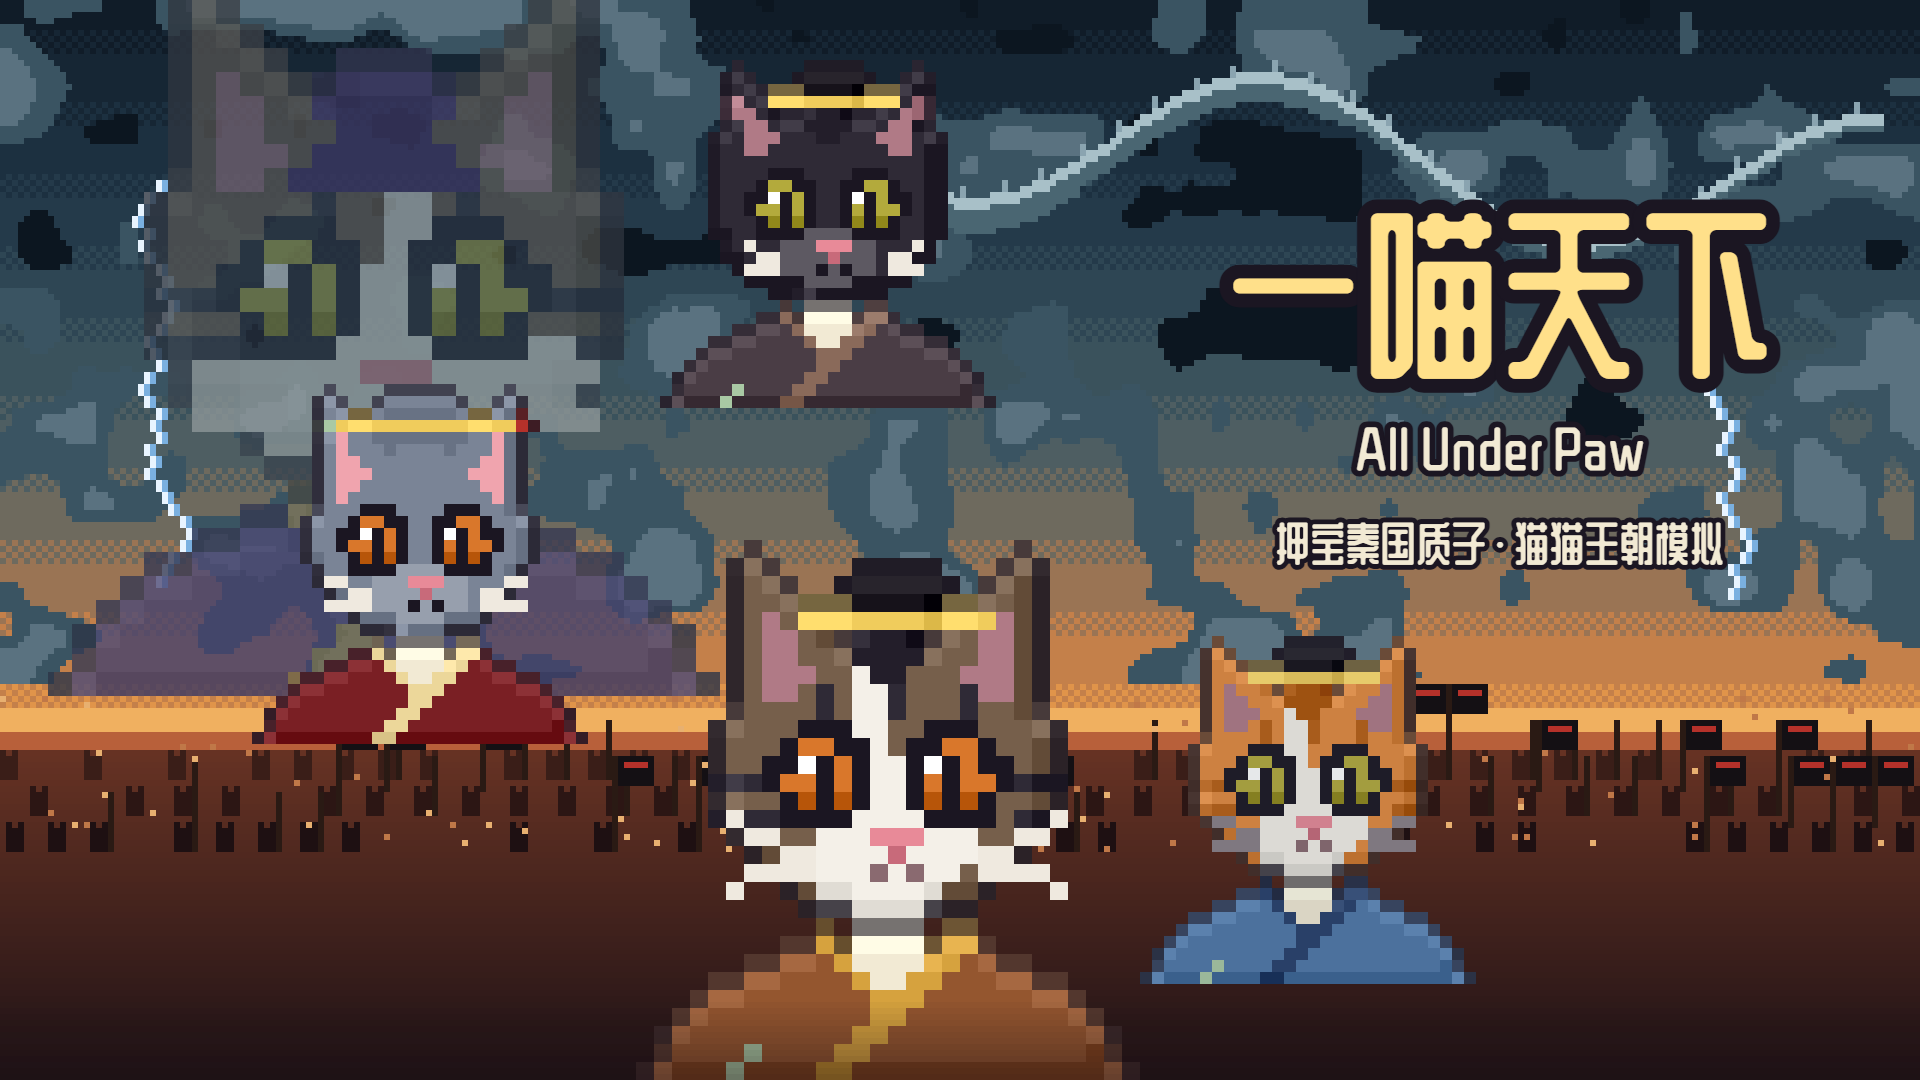
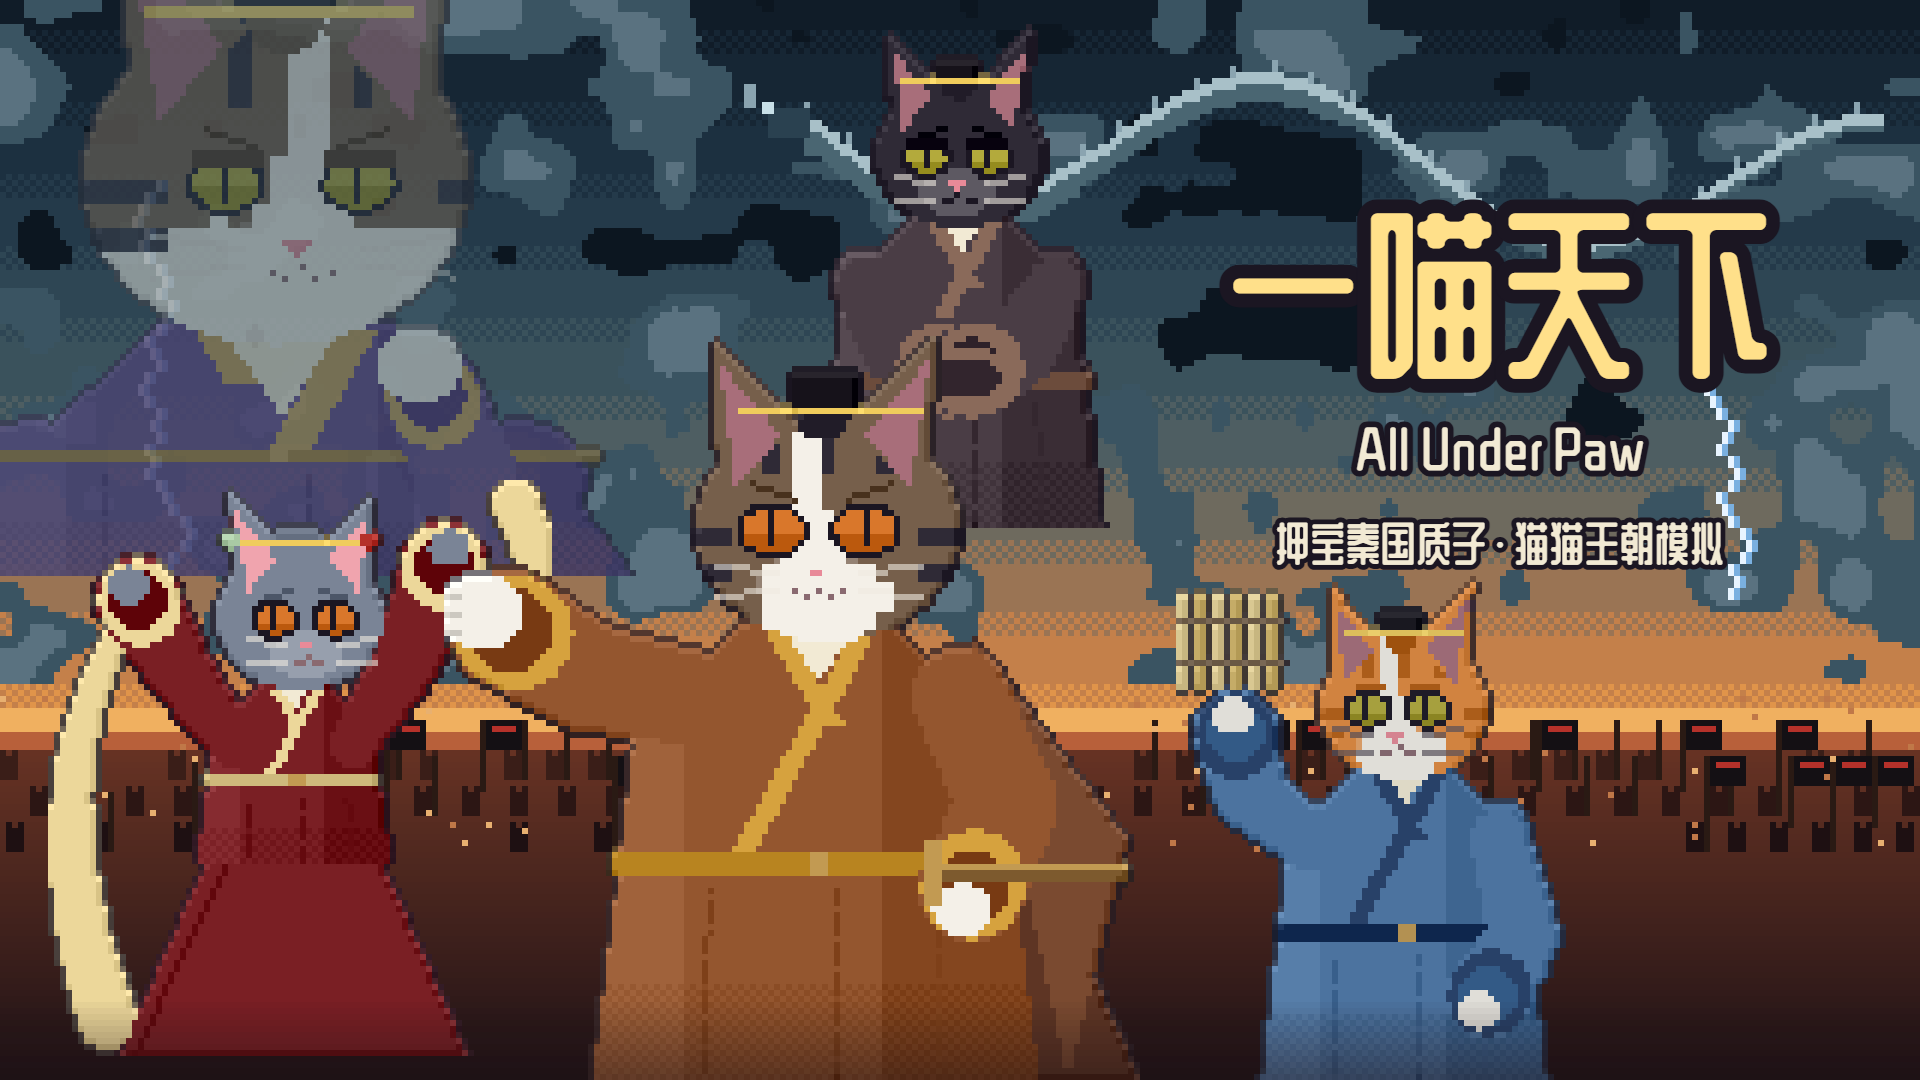
Key art: posed pixel figures instead of pasted portraits
The head of house reaches out with a paw on his sword, 赵姬 dances with flying
sleeves, 异人 bows with paws in his sleeves, 平原君 raises a bamboo scroll, and
吕不韦 looms in the clouds stroking his whiskers. Fur comes from their genes.

diff --git a/index.html b/index.html
@@ -2164,12 +2164,9 @@ function drawTitle() {
   if (!TITLEART && TW) {
     const Wb = W; W = TW;
     const c = paintKeyArt(180, 232), x = c.getContext('2d'); x.imageSmoothingEnabled = false;
-    const hero = coverHero();
-    const layers = [[C('lv'), -14, -8, 3, .5], [C('yiren'), 100, 20, 2, 0], [C('pingyuan'), 118, 86, 2, .12], [C('zhaoji'), 0, 78, 2, 0], [hero, 42, 116, 3, 0]];
-    for (const [ch, lx, ly, k, fade] of layers) {
-      let pc = portrait(ch);
-      if (fade) { const t = mk(32, 32), tx = t.getContext('2d'); tx.drawImage(pc, 0, 0); tx.globalCompositeOperation = 'source-atop'; tx.globalAlpha = fade; tx.fillStyle = '#2e4654'; tx.fillRect(0, 0, 32, 32); pc = t; }
-      x.globalAlpha = fade > .3 ? .8 : 1; x.drawImage(pc, lx, ly, 32 * k, 32 * k); x.globalAlpha = 1;
+    coverHero(); const F = keyFigures();
+    for (const [f, fx, fy, fade] of [[F.lv, -18, -6, .45], [F.yiren, 108, 8, 0], [F.pingyuan, 110, 82, .1], [F.zhaoji, -6, 66, 0], [F.hero, 30, 108, 0]]) {
+      x.globalAlpha = fade > .3 ? .85 : 1; x.drawImage(fade ? fadeTo(f, '#2e4654', fade) : f, fx, fy); x.globalAlpha = 1;
     }
     for (let y = 196; y < 232; y++) { x.globalAlpha = (y - 196) / 36; x.fillStyle = '#2a2030'; x.fillRect(0, y, 180, 1); }
     x.globalAlpha = 1;
@@ -2287,6 +2284,150 @@ function paintKeyArt(CW, CH) {
   for (let i = 0; i < 90; i++) { const x = hash2(i, 1, 21) * CW | 0, y = hz - 6 + hash2(i, 2, 21) * 26 | 0; F(x, y, 1, 1, i & 1 ? '#e8b070' : '#c07848'); }
   return c;
 }
+// ============================================================ key-art figures: posed half-body cats, drawn natively (not scaled portraits)
+// Fur is sampled from the same genetics as the portraits, so everyone keeps their markings.
+function gCapsule(G, x0, y0, x1, y1, r0, r1, col) {
+  const n = Math.max(2, Math.ceil(Math.hypot(x1 - x0, y1 - y0) / 1.5));
+  for (let i = 0; i <= n; i++) { const t = i / n; G.ell(lerp(x0, x1, t), lerp(y0, y1, t), lerp(r0, r1, t), lerp(r0, r1, t), col); }
+}
+function gPath(G, pts, r0, r1, col) { for (let i = 0; i < pts.length - 1; i++) { const t0 = i / (pts.length - 1), t1 = (i + 1) / (pts.length - 1); gCapsule(G, pts[i][0], pts[i][1], pts[i + 1][0], pts[i + 1][1], lerp(r0, r1, t0), lerp(r0, r1, t1), col); } }
+function bez(p0, p1, p2, n) { const o = []; for (let i = 0; i <= n; i++) { const t = i / n, a = (1 - t) * (1 - t), b = 2 * (1 - t) * t, c = t * t; o.push([a * p0[0] + b * p1[0] + c * p2[0], a * p0[1] + b * p1[1] + c * p2[1]]); } return o; }
+// a cat head at any size; face turns it (-1 looking to the viewer's left … 1 right); mood: 'calm' | 'fierce' | 'sly' | 'soft' | 'down'
+function gHead(G, L, seed, cx, cy, R, face, mood, hat) {
+  const fur = (x, y, reg) => furAt(L, clamp(Math.floor(16 + (x + .5 - cx) / R * 9.3 - face * 1.6), 0, 31), clamp(Math.floor(15 + (y + .5 - cy) / R * 7.7), 0, 31), reg, seed);
+  const ear = (sx) => {
+    const k = 1 - Math.max(0, sx * face) * .3;                  // the far ear looks a little smaller
+    const bx = cx + sx * R * .78 + face * R * .12, ix = cx + sx * R * .18 + face * R * .1, tx = cx + sx * R * .86 + face * R * .06, ty = cy - R * (1.02 + .5 * k);
+    G.tri(bx, cy - R * .2, ix, cy - R * .78, tx, ty, (x, y) => fur(x, y, 'ear'));
+    G.tri(bx - sx * R * .12, cy - R * .3, ix + sx * R * .14, cy - R * .7, tx - sx * R * .06, ty + R * .22, L.eu === 'black' && !L.allWhite ? '#a86e7a' : '#f0a4ae');
+  };
+  if (hat === 'ji') G.ell(cx - face * R * .2, cy - R * .72, R * .5, R * .36, shade(fur(cx, cy - R * .6, 'ear'), -22));
+  G.ell(cx, cy, R, R * .86, (x, y) => fur(x, y, 'head'));
+  if (L.long) for (const sx of [-1, 1]) G.tri(cx + sx * R * 1.08, cy + R * .28, cx + sx * R * .7, cy + R * .05, cx + sx * R * .72, cy + R * .6, (x, y) => fur(x, y, 'head'));
+  if (hat === 'jin') G.ell(cx + face * R * .1, cy - R * .72, R * .56, R * .3, PAL.he);
+  ear(-1); ear(1);
+  const fx = cx + face * R * .26;
+  G.ell(fx, cy + R * .44, R * .44, R * .28, (x, y) => fur(x, y, 'muzzle'));
+  // eyes: almond, slit pupils, a highlight; mood shapes the lids and brows
+  const er = R * (mood === 'sly' ? .13 : .17), ey = cy + R * .02;
+  for (const sx of [-1, 1]) {
+    const ex = fx + sx * R * .38 * (1 - Math.max(0, sx * face) * .35), iris = EYE[sx < 0 ? L.eyeL : L.eyeR];
+    G.ell(ex, ey, er * 1.35 + 1, er + 1, OUT);
+    G.ell(ex, ey, er * 1.35, er, (x, y) => y + .5 > ey + er * .2 ? shade(iris, -30) : iris);
+    G.rect(Math.round(ex - .5), Math.round(ey - er * .8), Math.max(1, Math.round(er * .35)), Math.max(2, Math.round(er * 1.6)), OUT);
+    if (mood === 'sly' || mood === 'down') G.rect(Math.round(ex - er * 1.4), Math.round(ey - er - 1), Math.round(er * 2.8), Math.max(1, Math.round(er * .7)), shade(fur(ex, ey - er, 'head'), -40));
+    // brows
+    const bc = shade(fur(ex, ey - er * 2, 'head'), -46), tilt = mood === 'fierce' || mood === 'sly' ? 1 : mood === 'soft' || mood === 'down' ? -1 : 0;
+    for (let i = 0; i < Math.round(er * 2.2); i++) G.set(Math.round(ex - sx * er + sx * i), Math.round(ey - er * 1.9 + tilt * (i - er) * .35 * -1), bc);
+  }
+  // nose and mouth
+  const ny = cy + R * .3;
+  G.tri(fx - R * .1, ny, fx + R * .1, ny, fx, ny + R * .1, '#e88a98');
+  const mc = lum(fur(fx, ny + R * .2, 'muzzle')) > .55 ? '#8a6a70' : OUT;
+  G.set(Math.round(fx), Math.round(ny + R * .14), mc);
+  for (const sx of [-1, 1]) { G.set(Math.round(fx + sx * R * .08), Math.round(ny + R * .2), mc); G.set(Math.round(fx + sx * R * .16), Math.round(ny + R * .17), mc); }
+  // headgear
+  const top = cy - R * .86;
+  if (hat === 'guan' || hat === 'gaoguan') {
+    G.ell(cx + face * R * .1, top + R * .02, R * .2, R * .18, shade(fur(cx, cy - R * .7, 'head'), -14));
+    const hw = R * .26;
+    if (hat === 'guan') G.rect(Math.round(cx + face * R * .1 - hw), Math.round(top - R * .3), Math.round(hw * 2), Math.round(R * .3), PAL.ink);
+    else G.tri(cx - hw, top, cx + hw + face * 2, top, cx + hw * .6 + face * 3, top - R * .6, PAL.ink);
+    G.rect(Math.round(cx - R * .7), Math.round(top - R * .06), Math.round(R * 1.4), Math.max(1, Math.round(R * .06)), PAL.gold);
+  }
+  if (hat === 'ji') { G.rect(Math.round(cx - R * .8), Math.round(top - R * .1), Math.round(R * 1.6), Math.max(1, Math.round(R * .07)), PAL.gold); G.ell(cx - R * .82, top - R * .06, R * .1, R * .1, PAL.jade); G.ell(cx + R * .82, top - R * .06, R * .1, R * .1, PAL.lacq); }
+  return { fx, ny };
+}
+function gWhiskers(cv, cx, cy, R, face, L) {
+  const x = cv.getContext('2d'), fx = cx + face * R * .26, wy = cy + R * .4, len = R * .5;
+  x.fillStyle = lum(L.main) > .6 ? 'rgba(90,80,90,.7)' : 'rgba(239,233,223,.6)';
+  for (const sx of [-1, 1]) for (const dy of [-1.5, 1]) for (let i = 0; i < len; i++) x.fillRect(Math.round(fx + sx * (R * .32 + i)), Math.round(wy + dy + i * dy * .12), 1, 1);
+}
+// robe: shoulders + a torso that widens downward, y-shaped crossed collar with a trim band, a sash with a bronze hook
+function gRobe(G, cx, top, w, h, robe, trim) {
+  // lit from the upper left: lighter left edge, darker right third, dithered hem
+  const body = (x, y) => { let c = robe; const dx = (x + .5 - cx) / w; if (dx > .18) c = shade(robe, -16); else if (dx < -.36) c = shade(robe, 12); if (y > top + h * .78 && ((x + y) & 1)) c = shade(c, -10); return c; };
+  const sy = top + w * .28, nw = w * .2;
+  G.tri(cx - nw, top, cx + nw, top, cx - w * .5, sy, body); G.tri(cx + nw, top, cx + w * .5, sy, cx - w * .5, sy, body);
+  G.ell(cx - w * .42, sy - 1, w * .12, w * .1, body); G.ell(cx + w * .42, sy - 1, w * .12, w * .1, body);
+  G.tri(cx - w * .5, sy, cx + w * .5, sy, cx + w * .62, top + h, body); G.tri(cx - w * .5, sy, cx - w * .62, top + h, cx + w * .62, top + h, body);
+  const cw = Math.max(2, Math.round(w * .07));
+  for (let i = 0; i < h * .5; i++) for (let k = 0; k < cw; k++) G.set(Math.round(cx + w * .1 - i * .55) + k, Math.round(top + 1 + i), trim);
+  for (let i = 0; i < h * .2; i++) for (let k = 0; k < cw; k++) G.set(Math.round(cx - w * .14 + i * .6) + k, Math.round(top + 1 + i), trim);
+  G.tri(cx - w * .1, top, cx + w * .12, top, cx + w * .01, top + w * .16, PAL.su);
+  const by = Math.round(top + h * .5), bh = Math.max(2, Math.round(h * .05));
+  G.rect(Math.round(cx - w * .56), by, Math.round(w * 1.12), bh, shade(trim, -30));
+  G.rect(Math.round(cx - 1), by, 3, bh, PAL.bronze);
+  // folds below the sash
+  for (const fx of [-.3, .05, .32]) for (let y = by + bh + 2; y < top + h; y++) if (((y + fx * 10) | 0) % 5 !== 0) G.set(Math.round(cx + w * fx + (y - by) * fx * .12), y, shade(robe, -22));
+}
+// a sleeved arm ending in a paw; cuff trim near the paw
+function gArm(G, pts, r0, r1, robe, trim, paw, pawR) {
+  gPath(G, pts, r0, r1, robe);
+  const [a, b] = [pts[pts.length - 2], pts[pts.length - 1]], d = Math.hypot(b[0] - a[0], b[1] - a[1]) || 1;
+  gCapsule(G, b[0] - (b[0] - a[0]) / d * 1.2, b[1] - (b[1] - a[1]) / d * 1.2, b[0], b[1], r1 * .95, r1 * .95, trim);
+  gCapsule(G, b[0], b[1], b[0], b[1], r1 * .7, r1 * .7, shade(robe, -28));   // the dark inside of the cuff
+  if (paw) { const px = b[0] + (b[0] - a[0]) / d * pawR * .8, py = b[1] + (b[1] - a[1]) / d * pawR * .8; G.ell(px, py, pawR, pawR * .9, paw); return [px, py]; }
+  return b;
+}
+function pawCol(L) { return L.allWhite || L.wz.length >= 2 ? WHITE : L.main; }
+// each figure returns a canvas; built once for the title screen and the cover
+function keyFigures() {
+  const out = {};
+  const mkFig = (w, h, fn, post) => { let meta; const cv = paint(w, h, G => { meta = fn(G); }); if (post) post(cv, meta); return cv; };
+  // 狸 head of house: turned to the left, one paw thrust forward, the other on the sword hilt, cloak flying
+  { const hero = C('coverhero'), L = catLook(hero), sd = hero.seed & 0xffff, robe = '#94562f', trim = '#d6a23e';
+    out.hero = mkFig(116, 124, G => {
+      G.tri(84, 52, 116, 124, 60, 124, '#5e3524'); G.tri(88, 50, 114, 84, 104, 124, '#7a4a30');     // cloak
+      gRobe(G, 62, 48, 60, 76, robe, trim);
+      gArm(G, [[86, 60], [94, 78], [88, 92]], 8, 9, robe, trim, pawCol(L), 5);                     // on the hilt
+      G.rect(80, 88, 34, 3, PAL.bronzeD); G.rect(80, 88, 34, 1, PAL.bronze); G.rect(80, 84, 3, 11, PAL.bronze);  // sword at the waist
+      const p = gArm(G, [[40, 60], [24, 57], [11, 49]], 8, 10, robe, trim, pawCol(L), 7);          // reaching out, wide sleeve
+      for (let i = -1; i <= 1; i++) G.rect(Math.round(p[0] - 6), Math.round(p[1] + i * 3), 3, 1, shade(pawCol(L), -40));
+      gHead(G, L, sd, 64, 32, 22, -.35, 'fierce', 'guan');
+    }, cv => gWhiskers(cv, 64, 32, 22, -.35, L)); }
+  // 赵姬: dancing, both arms up, long water-sleeves flying
+  { const c = C('zhaoji'), L = catLook(c), sd = c.seed & 0xffff, robe = '#7a1f24', trim = '#ecd79a';
+    out.zhaoji = mkFig(84, 96, G => {
+      gPath(G, bez([14, 22], [-4, 50], [10, 90], 12), 2, 5, trim);
+      gPath(G, bez([66, 14], [90, 30], [78, 4], 10), 2, 4, trim);
+      G.tri(28, 60, 54, 60, 70, 96, robe); G.tri(28, 60, 12, 96, 70, 96, robe);                   // skirt
+      for (let i = 0; i < 34; i++) G.set(Math.round(30 - i * .5 + i * .02), 62 + i, shade(robe, -25));
+      gRobe(G, 41, 34, 26, 30, robe, trim);
+      gArm(G, [[31, 44], [22, 32], [15, 20]], 4, 7, robe, trim, pawCol(L), 3.5);
+      gArm(G, [[51, 44], [60, 30], [66, 14]], 4, 7, robe, trim, pawCol(L), 3.5);
+      gHead(G, L, sd, 42, 23, 14, .3, 'soft', 'ji');
+    }, cv => gWhiskers(cv, 42, 23, 14, .3, L)); }
+  // 异人: the hostage, head bowed, paws folded into his sleeves
+  { const c = C('yiren'), L = catLook(c), sd = c.seed & 0xffff, robe = '#4a3d45', trim = '#8a6a5a';
+    out.yiren = mkFig(64, 84, G => {
+      gRobe(G, 32, 32, 38, 52, robe, trim);
+      gArm(G, [[16, 44], [22, 54], [30, 58]], 5, 8, robe, trim, null, 0);
+      gArm(G, [[48, 44], [42, 54], [34, 58]], 5, 8, robe, trim, null, 0);
+      G.ell(32, 59, 9, 5.5, trim); G.ell(32, 59, 7, 3.5, shade(robe, -24));
+      gHead(G, L, sd, 32, 22, 14, -.15, 'down', 'guan');
+    }, cv => gWhiskers(cv, 32, 22, 14, -.15, L)); }
+  // 平原君: raising a bamboo scroll
+  { const c = C('pingyuan'), L = catLook(c), sd = c.seed & 0xffff, robe = '#4f78a8', trim = '#27406b';
+    out.pingyuan = mkFig(70, 84, G => {
+      gRobe(G, 38, 32, 38, 52, robe, trim);
+      gArm(G, [[54, 44], [58, 60], [52, 70]], 5, 7, robe, trim, pawCol(L), 3.5);
+      const p = gArm(G, [[22, 44], [12, 36], [10, 26]], 5, 7, robe, trim, pawCol(L), 3.5);
+      for (let i = 0; i < 6; i++) G.rect(Math.round(p[0] - 9 + i * 3), Math.round(p[1] - 20), 2, 16, i & 1 ? '#d6b86a' : PAL.silk);
+      G.rect(Math.round(p[0] - 9), Math.round(p[1] - 16), 18, 1, PAL.he); G.rect(Math.round(p[0] - 9), Math.round(p[1] - 9), 18, 1, PAL.he);
+      gHead(G, L, sd, 38, 22, 14, -.4, 'calm', 'guan');
+    }, cv => gWhiskers(cv, 38, 22, 14, -.4, L)); }
+  // 吕不韦: a huge face in the clouds, eyes narrowed, stroking his whiskers
+  { const c = C('lv'), L = catLook(c), sd = c.seed & 0xffff, robe = '#5e3f86', trim = '#c29a52';
+    out.lv = mkFig(112, 108, G => {
+      gRobe(G, 50, 66, 96, 42, robe, trim);
+      gHead(G, L, sd, 50, 42, 32, .45, 'sly', 'guan');
+      gArm(G, [[82, 108], [82, 92], [76, 78]], 9, 8, robe, trim, pawCol(L), 7);
+    }, cv => gWhiskers(cv, 50, 42, 32, .45, L)); }
+  return out;
+}
+function fadeTo(cv, col, a) { const t = mk(cv.width, cv.height), x = t.getContext('2d'); x.drawImage(cv, 0, 0); x.globalCompositeOperation = 'source-atop'; x.globalAlpha = a; x.fillStyle = col; x.fillRect(0, 0, t.width, t.height); return t; }
+
 // the head of the 狸 house for the key art: a fixed tabby-and-white so it never changes (needs W = TW)
 function coverHero() {
   return W.chars.coverhero || mkc({ id: 'coverhero', sur: '狸', name: '伯阳', born: bornAt(290), role: 'noble', robe: 'li', house: 'li', hist: true, immortal: true, loc: 'away',
@@ -2296,15 +2437,9 @@ function renderCover() {
   const CW = 320, CH = 180, S = 6;
   W = TW;
   const c = paintKeyArt(CW, CH); g = c.getContext('2d'); g.imageSmoothingEnabled = false;
-  const hero = coverHero();
-  // figures, back to front: [char, x, y, scale, fade toward the sky]
-  const layers = [[C('lv'), 0, -12, 4, .5], [C('yiren'), 106, 4, 2, 0], [C('pingyuan'), 186, 100, 2, .12], [C('zhaoji'), 38, 60, 2, 0], [hero, 100, 84, 3, 0]];
-  for (const [ch, x, y, k, fade] of layers) {
-    let pc = portrait(ch);
-    if (fade) { const t = mk(32, 32), tx = t.getContext('2d'); tx.drawImage(pc, 0, 0); tx.globalCompositeOperation = 'source-atop'; tx.globalAlpha = fade; tx.fillStyle = '#2e4654'; tx.fillRect(0, 0, 32, 32); pc = t; }
-    g.globalAlpha = fade > .3 ? .8 : 1;
-    g.drawImage(pc, x, y, 32 * k, 32 * k);
-    g.globalAlpha = 1;
+  coverHero(); const Fg = keyFigures();
+  for (const [f, fx, fy, fade] of [[Fg.lv, -4, -12, .45], [Fg.yiren, 128, 4, 0], [Fg.pingyuan, 196, 96, .1], [Fg.zhaoji, 8, 80, 0], [Fg.hero, 74, 56, 0]]) {
+    g.globalAlpha = fade > .3 ? .85 : 1; g.drawImage(fade ? fadeTo(f, '#2e4654', fade) : f, fx, fy); g.globalAlpha = 1;
   }
   // warm rim light along the bottom so the front figure sits in the glow of the field
   for (let y = CH - 14; y < CH; y++) { g.globalAlpha = (y - (CH - 14)) / 14 * .5; g.fillStyle = '#1e1216'; g.fillRect(0, y, CW, 1); }

diff --git a/DESIGN.md b/DESIGN.md
@@ -180,6 +180,7 @@
 - **提示不挡字**：有事件、引导、对话卡时，右上角的数值提示先暂停，关掉后再显示
 - **封面**：改成群像海报构图（像素画风）：风暴云、云龙、闪电、橘红地平线和猫兵军阵；吕不韦巨大半透明浮在云中，异人、赵姬、平原君层叠，狸家家主在最前
 - **标题页**：同一套海报构图的竖版（人物层叠 + 标题压在原野上），去掉原来的三头像行
+- **立绘**：封面和标题页的角色改成有动作的像素立绘（毛色沿用基因）：家主前伸一手按剑、赵姬甩水袖、异人垂头拢袖、平原君举竹简、吕不韦云中捻须
 - **自测**：机器人加了排版检查（事件卡高度、选项和小字宽度、人物卡按钮数量）
 
 ## 待定
